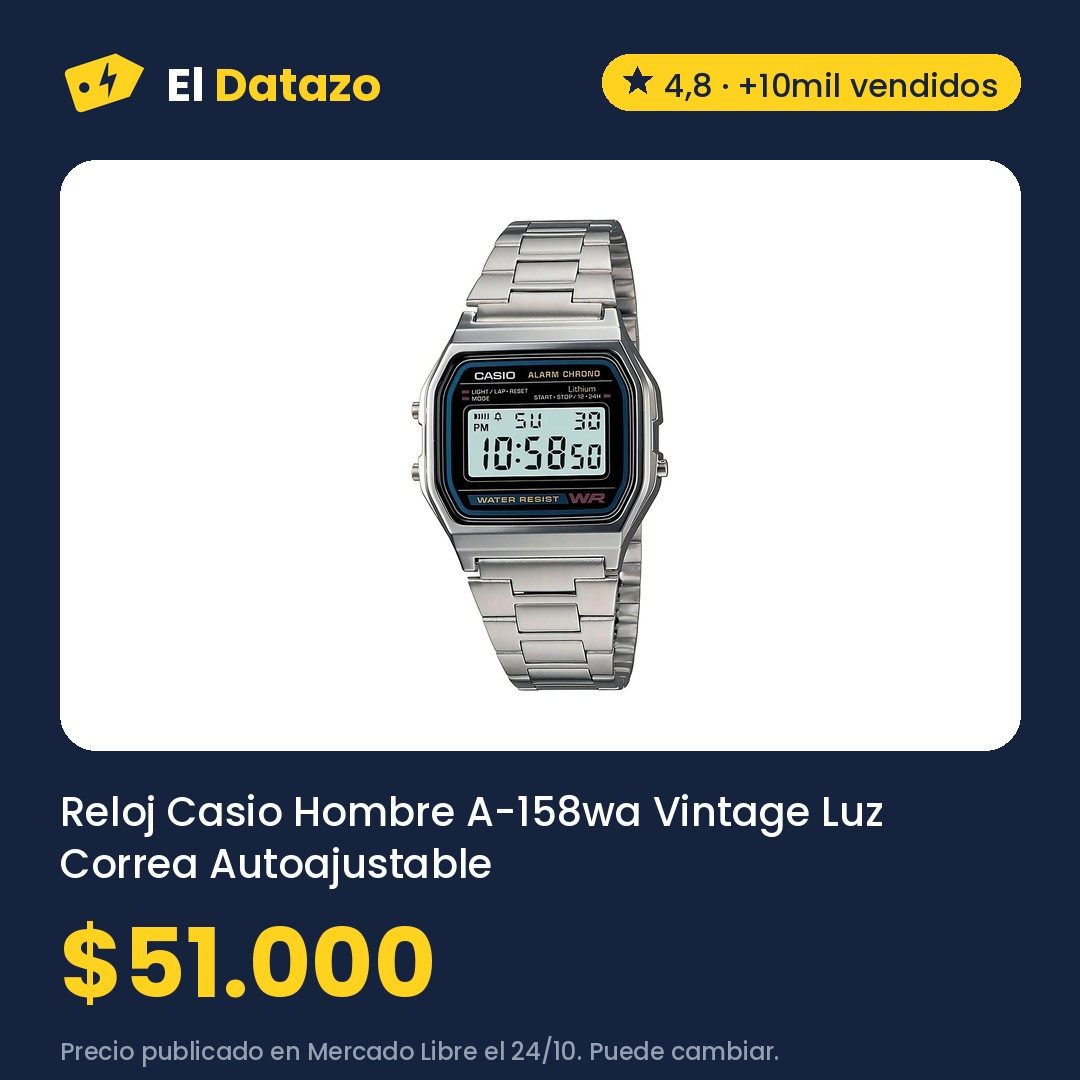
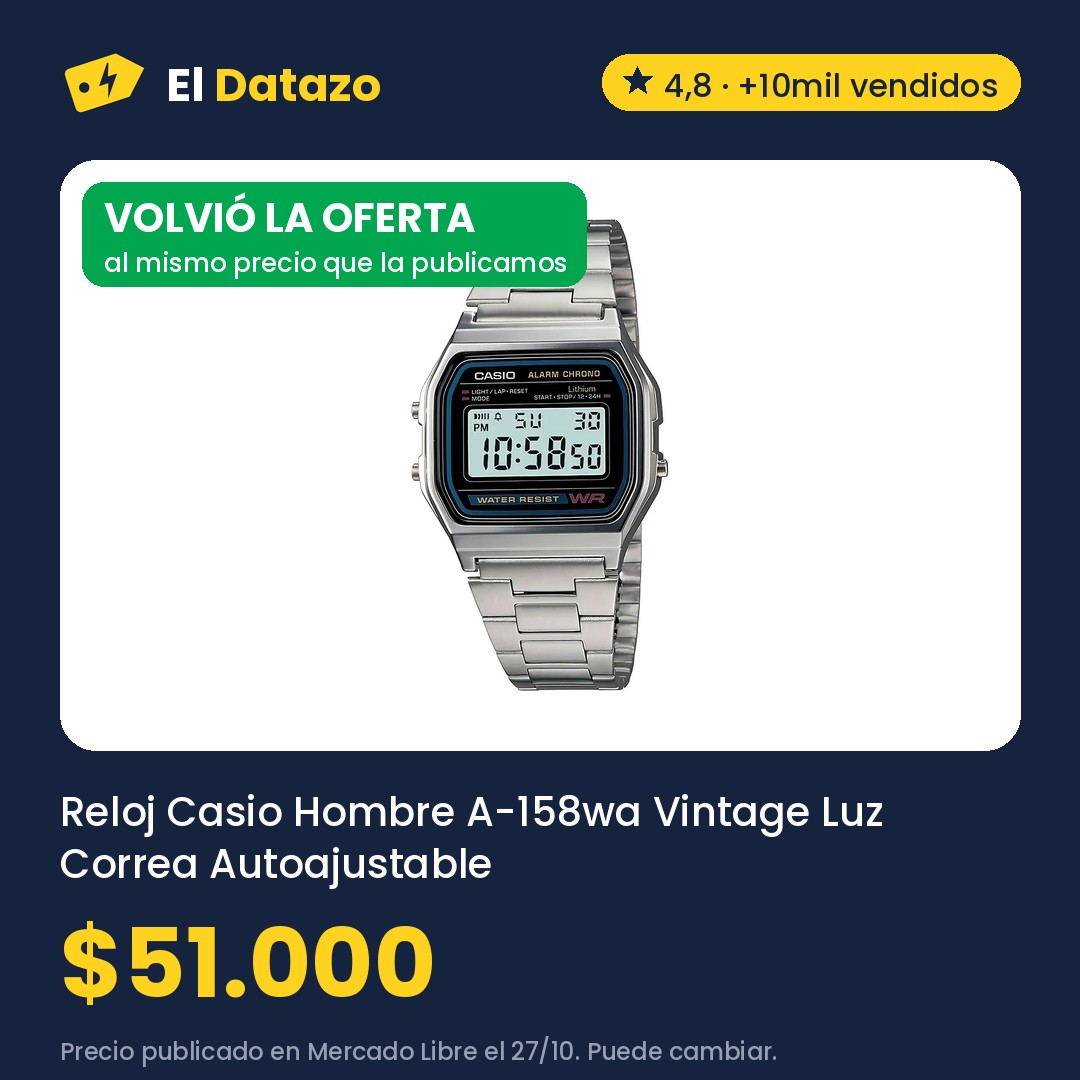
Ofertas 2026-10-27 16:16

Changed region(s): [[0.0611, 0.1528, 0.55, 0.275], [0.4889, 0.9472, 0.7028, 1.0]]

diff --git a/index.html b/index.html
@@ -47,7 +47,7 @@ font-weight:700;font-size:.85rem;padding:7px 12px;border-radius:999px}
 /* el datazo de hoy */
 .hero{display:grid;margin:22px 0 6px}
 .hero-foto img{display:block;width:100%;height:auto;border-radius:22px}
-.etiqueta{position:relative;margin:-14px 0 0 14px;background:var(--sol);color:var(--tinta);padding:20px 20px 16px 46px;
+.etiqueta{position:relative;margin:8px 0 0 14px;background:var(--sol);color:var(--tinta);padding:20px 20px 16px 46px;
 border-radius:0 18px 18px 0;clip-path:polygon(28px 0,100% 0,100% 100%,28px 100%,0 50%);
 transform-origin:22px 50%;animation:colgar 1.1s cubic-bezier(.3,1.6,.5,1) .25s both}
 .etiqueta::before{content:"";position:absolute;left:14px;top:50%;width:14px;height:14px;margin-top:-7px;border-radius:50%;
@@ -263,7 +263,7 @@ padding:3px 9px;border-radius:999px}
       <a class="ancla" href="#como-elegimos">¿Cómo elegimos?</a></p>
       <form class="busca" role="search" action="./" method="get" data-busca>
         <label class="oculto" for="q">Buscar en Mercado Libre</label>
-        <input id="q" name="q" type="search" placeholder="¿Qué buscás? Ej.: freidora de aire" autocomplete="off"
+        <input id="q" name="q" type="search" placeholder="¿Qué buscás? Ej.: termo" autocomplete="off"
                enterkeyhint="search" maxlength="80">
         <button type="submit">Buscar</button>
       </form>
@@ -292,7 +292,7 @@ padding:3px 9px;border-radius:999px}
       <p class="hero-precio">$50.749</p>
       <p class="hero-antes"><s>$108.499</s> <span class="off">53% OFF</span></p>
       
-      <p class="nota">Precio del 24/10 en Mercado Libre, revisado hoy a las 11:32. Puede cambiar.</p>
+      <p class="nota">Precio del 24/10 en Mercado Libre, revisado hoy a las 13:16. Puede cambiar.</p>
       <a class="boton oscuro" href="https://meli.la/1HyqnAD" rel="sponsored noopener" target="_blank"
          data-oferta="MLA22130330">Ver oferta en Mercado Libre</a>
       <a class="compartir" href="https://wa.me/?text=Mir%C3%A1%20este%20datazo%3A%20Buclera%20de%20Pelo%20Gadnic%20B3000%20Rizador%203%20Tubos%2025%20mm%20150W%20180%20210%20C%20a%20%2450.749%20https%3A//eldatazo.com.ar/%23MLA22130330" target="_blank" rel="noopener" data-estilo="texto"><svg viewBox="0 0 24 24" width="16" height="16" aria-hidden="true"><path d="M4 20l1.3-4A8 8 0 1 1 8 18.7L4 20z" fill="none" stroke="currentColor" stroke-width="2" stroke-linejoin="round"/></svg> Compartir por WhatsApp</a>
@@ -300,7 +300,7 @@ padding:3px 9px;border-radius:999px}
   </section>
       
   <section class="franja-bajo" aria-labelledby="bajo-titulo">
-    <h2 id="bajo-titulo">⬇ Bajaron de precio <span>11</span></h2>
+    <h2 id="bajo-titulo">⬇ Bajaron de precio <span>13</span></h2>
     <ul class="franja-lista">
         <li><a href="#MLA16048275"><img src="img/MLA16048275.jpg" alt="" loading="lazy">
           <span><b>Eucerin Sun Oil Control Protector solar facial Toque Seco FPS 50 x 50 ml</b><span class="ahora">$37.651</span><s>$45.181</s> <span class="bajo">⬇ Bajó</span></span></a></li>
@@ -310,6 +310,10 @@ padding:3px 9px;border-radius:999px}
           <span><b>Old Prince Premium gato adulto 7.5 kg</b><span class="ahora">$40.100</span> <span class="bajo">⬇ Volvió</span></span></a></li>
         <li><a href="#MLA28052339"><img src="img/MLA28052339.jpg" alt="" loading="lazy">
           <span><b>Pañales Pampers deluxe protection XXG x 54 unidades</b><span class="ahora">$42.190</span> <span class="bajo">⬇ Volvió</span></span></a></li>
+        <li><a href="#MLA30422545"><img src="img/MLA30422545.jpg" alt="" loading="lazy">
+          <span><b>Reloj Casio Hombre A-158wa Vintage Luz Correa Autoajustable Malla Plateado Bisel Gris Fondo P</b><span class="ahora">$51.000</span> <span class="bajo">⬇ Volvió</span></span></a></li>
+        <li><a href="#MLA32162099"><img src="img/MLA32162099.jpg" alt="" loading="lazy">
+          <span><b>Reloj Casio Vintage A158WA-1DF digital plateado con cronógrafo y calendario</b><span class="ahora">$51.000</span> <span class="bajo">⬇ Volvió</span></span></a></li>
         <li><a href="https://meli.la/2bhn3SU" rel="sponsored noopener" target="_blank" data-oferta="MLA29031346"><img src="https://http2.mlstatic.com/D_Q_NP_930271-MLA99501053204_112025-AB.webp" alt="" loading="lazy" referrerpolicy="no-referrer">
           <span><b>Kit X 2 Handy Baofeng Radio Walkie Talkie Bf888s 16ch Uhf Bandas de frecuencia 16 Color Negro</b><span class="ahora">$31.448</span><s>$45.000</s>
           <span class="bajo">⬇ Bajó</span></span></a></li>
@@ -327,9 +331,6 @@ padding:3px 9px;border-radius:999px}
           <span class="bajo">⬇ Bajó</span></span></a></li>
         <li><a href="https://meli.la/1bvAc5G" rel="sponsored noopener" target="_blank" data-oferta="MLA41149389"><img src="https://http2.mlstatic.com/D_Q_NP_607503-MLA115610455682_092026-AB.webp" alt="" loading="lazy" referrerpolicy="no-referrer">
           <span><b>Auriculares Xiaomi Redmi Buds 6 Play Inalámbricos Bluetooth 5.4 36 h In-ear Blanco</b><span class="ahora">$22.500</span><s>$25.450</s>
-          <span class="bajo">⬇ Bajó</span></span></a></li>
-        <li><a href="https://meli.la/28b98gK" rel="sponsored noopener" target="_blank" data-oferta="MLA16596813"><img src="https://http2.mlstatic.com/D_Q_NP_978080-MLA99388425642_112025-AB.webp" alt="" loading="lazy" referrerpolicy="no-referrer">
-          <span><b>Tarjeta de memoria SanDisk SDSQUNR-064G-GN3MA Ultra con adaptador SD 64GB</b><span class="ahora">$30.451</span><s>$32.499</s>
           <span class="bajo">⬇ Bajó</span></span></a></li>
     </ul>
   </section>
@@ -350,8 +351,8 @@ padding:3px 9px;border-radius:999px}
             <option value="precio">Más baratas</option>
           </select></label>
       </div>
-      <div class="chips" role="group" aria-label="Rubro"><button type="button" data-filtro="" aria-pressed="true">Todo</button><button type="button" data-filtro="MLA1500" aria-pressed="false">Construcción <span>5</span></button><button type="button" data-filtro="MLA1499" aria-pressed="false">Industrias y Oficinas <span>3</span></button><button type="button" data-filtro="MLA1071" aria-pressed="false">Mascotas <span>3</span></button><button type="button" data-filtro="MLA5725" aria-pressed="false">Accesorios para Vehículos <span>2</span></button><button type="button" data-filtro="MLA1246" aria-pressed="false">Belleza y Cuidado Personal <span>2</span></button><button type="button" data-filtro="MLA1132" aria-pressed="false">Juegos y Juguetes <span>2</span></button><button type="button" data-filtro="MLA409431" aria-pressed="false">Salud y Equipamiento Médico <span>2</span></button><button type="button" data-filtro="MLA1512" aria-pressed="false">Agro <span>1</span></button><button type="button" data-filtro="MLA1368" aria-pressed="false">Arte, Librería y Mercería <span>1</span></button><button type="button" data-filtro="MLA1384" aria-pressed="false">Bebés <span>1</span></button><button type="button" data-filtro="MLA1276" aria-pressed="false">Deportes y Fitness <span>1</span></button><button type="button" data-filtro="MLA407134" aria-pressed="false">Herramientas <span>1</span></button></div>
-      <p class="contador" aria-live="polite"><span data-cuenta>24</span> ofertas</p>
+      <div class="chips" role="group" aria-label="Rubro"><button type="button" data-filtro="" aria-pressed="true">Todo</button><button type="button" data-filtro="MLA1500" aria-pressed="false">Construcción <span>5</span></button><button type="button" data-filtro="MLA1499" aria-pressed="false">Industrias y Oficinas <span>3</span></button><button type="button" data-filtro="MLA1071" aria-pressed="false">Mascotas <span>3</span></button><button type="button" data-filtro="MLA5725" aria-pressed="false">Accesorios para Vehículos <span>2</span></button><button type="button" data-filtro="MLA1246" aria-pressed="false">Belleza y Cuidado Personal <span>2</span></button><button type="button" data-filtro="MLA3937" aria-pressed="false">Joyas y Relojes <span>2</span></button><button type="button" data-filtro="MLA1132" aria-pressed="false">Juegos y Juguetes <span>2</span></button><button type="button" data-filtro="MLA409431" aria-pressed="false">Salud y Equipamiento Médico <span>2</span></button><button type="button" data-filtro="MLA1512" aria-pressed="false">Agro <span>1</span></button><button type="button" data-filtro="MLA1368" aria-pressed="false">Arte, Librería y Mercería <span>1</span></button><button type="button" data-filtro="MLA1384" aria-pressed="false">Bebés <span>1</span></button><button type="button" data-filtro="MLA1276" aria-pressed="false">Deportes y Fitness <span>1</span></button><button type="button" data-filtro="MLA407134" aria-pressed="false">Herramientas <span>1</span></button></div>
+      <p class="contador" aria-live="polite"><span data-cuenta>26</span> ofertas</p>
     </div>
     <div class="grilla activas">
       <article class="tarjeta destacada" id="MLA16048275" data-rubro="MLA1246" data-off="50" data-pub="2026-10-27" data-quedan="7" data-precio="37651" data-bajo="18" data-texto="eucerin sun oil control protector solar facial toque seco fps 50 x 50 ml">
@@ -363,7 +364,7 @@ padding:3px 9px;border-radius:999px}
           <h3>Eucerin Sun Oil Control Protector solar facial Toque Seco FPS 50 x 50 ml</h3>
           <p class="precios "><span class="precio">$37.651</span><s class="antes">$75.302</s><span class="off">50% OFF</span></p>
           <p class="bajo">Antes $45.181 el 22/10 · 17% menos</p>
-          <p class="nota">Precio de hoy a las 11:32 en Mercado Libre. Puede cambiar.</p>
+          <p class="nota">Precio de hoy a las 13:16 en Mercado Libre. Puede cambiar.</p>
           <div class="acciones">
             <a class="boton" href="https://meli.la/2Zpeewk" rel="sponsored noopener" target="_blank"
                data-oferta="MLA16048275">Ver oferta</a>
@@ -381,7 +382,7 @@ padding:3px 9px;border-radius:999px}
           <h3>Old Prince Premium gato adulto 7.5 kg</h3>
           <p class="precios "><span class="precio">$40.100</span></p>
           <p class="bajo">Había terminado y volvió al mismo precio</p>
-          <p class="nota">Precio de hoy a las 11:32 en Mercado Libre. Puede cambiar.</p>
+          <p class="nota">Precio de hoy a las 13:16 en Mercado Libre. Puede cambiar.</p>
           <div class="acciones">
             <a class="boton" href="https://meli.la/2zmmmFA" rel="sponsored noopener" target="_blank"
                data-oferta="MLA25363194">Ver oferta</a>
@@ -399,11 +400,47 @@ padding:3px 9px;border-radius:999px}
           <h3>Pañales Pampers deluxe protection XXG x 54 unidades</h3>
           <p class="precios "><span class="precio">$42.190</span><s class="antes">$43.430</s><span class="off">3% OFF</span></p>
           <p class="bajo">Había terminado y volvió al mismo precio</p>
-          <p class="nota">Precio de hoy a las 11:32 en Mercado Libre. Puede cambiar.</p>
+          <p class="nota">Precio de hoy a las 13:16 en Mercado Libre. Puede cambiar.</p>
           <div class="acciones">
             <a class="boton" href="https://meli.la/2kAwAe6" rel="sponsored noopener" target="_blank"
                data-oferta="MLA28052339">Ver oferta</a>
             <a class="compartir" href="https://wa.me/?text=Mir%C3%A1%20este%20datazo%3A%20Pa%C3%B1ales%20Pampers%20deluxe%20protection%20XXG%20x%2054%20unidades%20a%20%2442.190%20https%3A//eldatazo.com.ar/%23MLA28052339" target="_blank" rel="noopener"
+               aria-label="Compartir por WhatsApp" title="Compartir por WhatsApp"><svg viewBox="0 0 24 24" width="16" height="16" aria-hidden="true"><path d="M4 20l1.3-4A8 8 0 1 1 8 18.7L4 20z" fill="none" stroke="currentColor" stroke-width="2" stroke-linejoin="round"/></svg></a>
+          </div>
+        </div>
+      </article>
+      <article class="tarjeta destacada" id="MLA30422545" data-rubro="MLA3937" data-off="0" data-pub="2026-10-27" data-quedan="7" data-precio="51000" data-bajo="1" data-texto="reloj casio hombre a-158wa vintage luz correa autoajustable malla plateado bisel gris fondo p">
+        <div class="tarjeta-foto">
+          <img src="img/MLA30422545.jpg" alt="Reloj Casio Hombre A-158wa Vintage Luz Correa Autoajustable Malla Plateado Bisel Gris Fondo P" loading="lazy" width="1080" height="1080">
+        </div>
+        <div class="cuerpo">
+          <div class="fila"><span class="sello baja">⬇ Volvió</span><span class="sello">Quedan 7 días</span><span class="rubro">Joyas y Relojes</span></div>
+          <h3>Reloj Casio Hombre A-158wa Vintage Luz Correa Autoajustable Malla Plateado Bisel Gris Fondo P</h3>
+          <p class="precios "><span class="precio">$51.000</span></p>
+          <p class="bajo">Había terminado y volvió al mismo precio</p>
+          <p class="nota">Precio de hoy a las 13:16 en Mercado Libre. Puede cambiar.</p>
+          <div class="acciones">
+            <a class="boton" href="https://meli.la/2o65PxL" rel="sponsored noopener" target="_blank"
+               data-oferta="MLA30422545">Ver oferta</a>
+            <a class="compartir" href="https://wa.me/?text=Mir%C3%A1%20este%20datazo%3A%20Reloj%20Casio%20Hombre%20A-158wa%20Vintage%20Luz%20Correa%20Autoajustable%20Malla%20Plateado%20Bisel%20Gris%20Fondo%20P%20a%20%2451.000%20https%3A//eldatazo.com.ar/%23MLA30422545" target="_blank" rel="noopener"
+               aria-label="Compartir por WhatsApp" title="Compartir por WhatsApp"><svg viewBox="0 0 24 24" width="16" height="16" aria-hidden="true"><path d="M4 20l1.3-4A8 8 0 1 1 8 18.7L4 20z" fill="none" stroke="currentColor" stroke-width="2" stroke-linejoin="round"/></svg></a>
+          </div>
+        </div>
+      </article>
+      <article class="tarjeta destacada" id="MLA32162099" data-rubro="MLA3937" data-off="0" data-pub="2026-10-27" data-quedan="7" data-precio="51000" data-bajo="1" data-texto="reloj casio vintage a158wa-1df digital plateado con cronógrafo y calendario">
+        <div class="tarjeta-foto">
+          <img src="img/MLA32162099.jpg" alt="Reloj Casio Vintage A158WA-1DF digital plateado con cronógrafo y calendario" loading="lazy" width="1080" height="1080">
+        </div>
+        <div class="cuerpo">
+          <div class="fila"><span class="sello baja">⬇ Volvió</span><span class="sello">Quedan 7 días</span><span class="rubro">Joyas y Relojes</span></div>
+          <h3>Reloj Casio Vintage A158WA-1DF digital plateado con cronógrafo y calendario</h3>
+          <p class="precios "><span class="precio">$51.000</span></p>
+          <p class="bajo">Había terminado y volvió al mismo precio</p>
+          <p class="nota">Precio de hoy a las 13:16 en Mercado Libre. Puede cambiar.</p>
+          <div class="acciones">
+            <a class="boton" href="https://meli.la/1Z3v7SJ" rel="sponsored noopener" target="_blank"
+               data-oferta="MLA32162099">Ver oferta</a>
+            <a class="compartir" href="https://wa.me/?text=Mir%C3%A1%20este%20datazo%3A%20Reloj%20Casio%20Vintage%20A158WA-1DF%20digital%20plateado%20con%20cron%C3%B3grafo%20y%20calendario%20a%20%2451.000%20https%3A//eldatazo.com.ar/%23MLA32162099" target="_blank" rel="noopener"
                aria-label="Compartir por WhatsApp" title="Compartir por WhatsApp"><svg viewBox="0 0 24 24" width="16" height="16" aria-hidden="true"><path d="M4 20l1.3-4A8 8 0 1 1 8 18.7L4 20z" fill="none" stroke="currentColor" stroke-width="2" stroke-linejoin="round"/></svg></a>
           </div>
         </div>
@@ -417,7 +454,7 @@ padding:3px 9px;border-radius:999px}
           <h3>Calculadora Cientifica Casio Fx 570la Cw Classwiz Negra</h3>
           <p class="precios "><span class="precio">$59.174</span></p>
           
-          <p class="nota">Precio del 26/10 en Mercado Libre, revisado hoy a las 11:32. Puede cambiar.</p>
+          <p class="nota">Precio del 26/10 en Mercado Libre, revisado hoy a las 13:16. Puede cambiar.</p>
           <div class="acciones">
             <a class="boton" href="https://meli.la/2iggYJ9" rel="sponsored noopener" target="_blank"
                data-oferta="MLA22724798">Ver oferta</a>
@@ -435,7 +472,7 @@ padding:3px 9px;border-radius:999px}
           <h3>Colchón Inflable Doble Klimber + Inflador + 2 Almohadas</h3>
           <p class="precios "><span class="precio">$45.777</span><s class="antes">$69.499</s><span class="off">34% OFF</span></p>
           
-          <p class="nota">Precio del 26/10 en Mercado Libre, revisado hoy a las 11:32. Puede cambiar.</p>
+          <p class="nota">Precio del 26/10 en Mercado Libre, revisado hoy a las 13:16. Puede cambiar.</p>
           <div class="acciones">
             <a class="boton" href="https://meli.la/19eMhmv" rel="sponsored noopener" target="_blank"
                data-oferta="MLA22764635">Ver oferta</a>
@@ -453,7 +490,7 @@ padding:3px 9px;border-radius:999px}
           <h3>Rotuladora Portátil Niimbot Etiquetadora Manual Impresora Color Blanco D110</h3>
           <p class="precios "><span class="precio">$41.040</span><s class="antes">$58.900</s><span class="off">30% OFF</span></p>
           
-          <p class="nota">Precio del 26/10 en Mercado Libre, revisado hoy a las 11:32. Puede cambiar.</p>
+          <p class="nota">Precio del 26/10 en Mercado Libre, revisado hoy a las 13:16. Puede cambiar.</p>
           <div class="acciones">
             <a class="boton" href="https://meli.la/1czSFp6" rel="sponsored noopener" target="_blank"
                data-oferta="MLA45260672">Ver oferta</a>
@@ -471,7 +508,7 @@ padding:3px 9px;border-radius:999px}
           <h3>Probioticos Perros Aditivo Natural Digestivo Instestinal Alergia Ruffitos</h3>
           <p class="precios "><span class="precio">$52.990</span><s class="antes">$69.000</s><span class="off">23% OFF</span></p>
           
-          <p class="nota">Precio del 26/10 en Mercado Libre, revisado hoy a las 11:32. Puede cambiar.</p>
+          <p class="nota">Precio del 26/10 en Mercado Libre, revisado hoy a las 13:16. Puede cambiar.</p>
           <div class="acciones">
             <a class="boton" href="https://meli.la/2MYNaoX" rel="sponsored noopener" target="_blank"
                data-oferta="MLA59797283">Ver oferta</a>
@@ -489,7 +526,7 @@ padding:3px 9px;border-radius:999px}
           <h3>Bomba Periferica Elevadora Agua Vasser 1/2 Hp 20mts caudal 30 l/m</h3>
           <p class="precios "><span class="precio">$42.419</span><s class="antes">$51.449</s><span class="off">18% OFF</span></p>
           
-          <p class="nota">Precio de hoy a las 11:32 en Mercado Libre. Puede cambiar.</p>
+          <p class="nota">Precio de hoy a las 13:16 en Mercado Libre. Puede cambiar.</p>
           <div class="acciones">
             <a class="boton" href="https://meli.la/2nztThe" rel="sponsored noopener" target="_blank"
                data-oferta="MLA19576694">Ver oferta</a>
@@ -507,7 +544,7 @@ padding:3px 9px;border-radius:999px}
           <h3>Bomba Pluvius Presurizadora 100 W Automática 2 Baños</h3>
           <p class="precios "><span class="precio">$62.006</span><s class="antes">$81.899</s><span class="off">24% OFF</span></p>
           <p class="bajo">Antes $66.659 el 24/10 · 7% menos</p>
-          <p class="nota">Precio de hoy a las 11:32 en Mercado Libre. Puede cambiar.</p>
+          <p class="nota">Precio de hoy a las 13:16 en Mercado Libre. Puede cambiar.</p>
           <div class="acciones">
             <a class="boton" href="https://meli.la/2a5DkY2" rel="sponsored noopener" target="_blank"
                data-oferta="MLA19974075">Ver oferta</a>
@@ -525,7 +562,7 @@ padding:3px 9px;border-radius:999px}
           <h3>Equipo Pistola Pintar Eléctrica Latex 450w TOTAL Acabado Profesional sin Esfuerzo</h3>
           <p class="precios "><span class="precio">$56.340</span><s class="antes">$105.990</s><span class="off">47% OFF</span></p>
           
-          <p class="nota">Precio del 24/10 en Mercado Libre, revisado hoy a las 11:32. Puede cambiar.</p>
+          <p class="nota">Precio del 24/10 en Mercado Libre, revisado hoy a las 13:16. Puede cambiar.</p>
           <div class="acciones">
             <a class="boton" href="https://meli.la/2TeggF7" rel="sponsored noopener" target="_blank"
                data-oferta="MLA22620660">Ver oferta</a>
@@ -543,7 +580,7 @@ padding:3px 9px;border-radius:999px}
           <h3>Silfab AL91 Almohadilla Eléctrica Espalda Large 41 X 28 Cm</h3>
           <p class="precios "><span class="precio">$50.465</span></p>
           
-          <p class="nota">Precio del 24/10 en Mercado Libre, revisado hoy a las 11:32. Puede cambiar.</p>
+          <p class="nota">Precio del 24/10 en Mercado Libre, revisado hoy a las 13:16. Puede cambiar.</p>
           <div class="acciones">
             <a class="boton" href="https://meli.la/2cQdCWW" rel="sponsored noopener" target="_blank"
                data-oferta="MLA23456165">Ver oferta</a>
@@ -561,7 +598,7 @@ padding:3px 9px;border-radius:999px}
           <h3>Pintura Latex Ingenia X 20 L Interior Exterior Cubritiva - Blanco</h3>
           <p class="precios "><span class="precio">$32.999</span><s class="antes">$69.999</s><span class="off">53% OFF</span></p>
           
-          <p class="nota">Precio del 24/10 en Mercado Libre, revisado hoy a las 11:32. Puede cambiar.</p>
+          <p class="nota">Precio del 24/10 en Mercado Libre, revisado hoy a las 13:16. Puede cambiar.</p>
           <div class="acciones">
             <a class="boton" href="https://meli.la/2Gbd1ds" rel="sponsored noopener" target="_blank"
                data-oferta="MLA23521180">Ver oferta</a>
@@ -579,7 +616,7 @@ padding:3px 9px;border-radius:999px}
           <h3>Masajeador Cervical Eléctrico Portatil Inalambrico Batería Recargable Usb Femmto Relajación Cuello Espalda Lumbar</h3>
           <p class="precios "><span class="precio">$70.699</span><s class="antes">$100.000</s><span class="off">29% OFF</span></p>
           
-          <p class="nota">Precio del 22/10 en Mercado Libre, revisado hoy a las 11:32. Puede cambiar.</p>
+          <p class="nota">Precio del 22/10 en Mercado Libre, revisado hoy a las 13:16. Puede cambiar.</p>
           <div class="acciones">
             <a class="boton" href="https://meli.la/2DfwhAa" rel="sponsored noopener" target="_blank"
                data-oferta="MLA24127896">Ver oferta</a>
@@ -597,7 +634,7 @@ padding:3px 9px;border-radius:999px}
           <h3>Taladro Atornillador Inalámbrico Branx Bateria 20v Litio Color Accesorios Maletin HyperBolt20</h3>
           <p class="precios "><span class="precio">$58.999</span><s class="antes">$120.000</s><span class="off">51% OFF</span></p>
           
-          <p class="nota">Precio del 24/10 en Mercado Libre, revisado hoy a las 11:32. Puede cambiar.</p>
+          <p class="nota">Precio del 24/10 en Mercado Libre, revisado hoy a las 13:16. Puede cambiar.</p>
           <div class="acciones">
             <a class="boton" href="https://meli.la/2xk9W87" rel="sponsored noopener" target="_blank"
                data-oferta="MLA24983473">Ver oferta</a>
@@ -615,7 +652,7 @@ padding:3px 9px;border-radius:999px}
           <h3>Equipo de Alta Frecuencia Gadnic LF60 Antienvejecimiento Antiacné Reafirmante Facial 4 Electrodos</h3>
           <p class="precios "><span class="precio">$49.999</span><s class="antes">$98.399</s><span class="off">49% OFF</span></p>
           
-          <p class="nota">Precio del 24/10 en Mercado Libre, revisado hoy a las 11:32. Puede cambiar.</p>
+          <p class="nota">Precio del 24/10 en Mercado Libre, revisado hoy a las 13:16. Puede cambiar.</p>
           <div class="acciones">
             <a class="boton" href="https://meli.la/1guS1ep" rel="sponsored noopener" target="_blank"
                data-oferta="MLA26522167">Ver oferta</a>
@@ -633,7 +670,7 @@ padding:3px 9px;border-radius:999px}
           <h3>Bomba Presurizadora Elevadora 2 Baños Presion Kommberg 120w KB-EP120</h3>
           <p class="precios "><span class="precio">$60.021</span><s class="antes">$79.890</s><span class="off">25% OFF</span></p>
           
-          <p class="nota">Precio del 24/10 en Mercado Libre, revisado hoy a las 11:32. Puede cambiar.</p>
+          <p class="nota">Precio del 24/10 en Mercado Libre, revisado hoy a las 13:16. Puede cambiar.</p>
           <div class="acciones">
             <a class="boton" href="https://meli.la/2eMw9XD" rel="sponsored noopener" target="_blank"
                data-oferta="MLA28254149">Ver oferta</a>
@@ -651,7 +688,7 @@ padding:3px 9px;border-radius:999px}
           <h3>Máquina De Cortar Pelo Para Perros Gadnic CP170 Silenciosa 2000 mAh 4 Peines Acero Inoxidable Autonomía 3,5Hr Carga Rápida</h3>
           <p class="precios "><span class="precio">$68.999</span><s class="antes">$118.749</s><span class="off">42% OFF</span></p>
           
-          <p class="nota">Precio del 24/10 en Mercado Libre, revisado hoy a las 11:32. Puede cambiar.</p>
+          <p class="nota">Precio del 24/10 en Mercado Libre, revisado hoy a las 13:16. Puede cambiar.</p>
           <div class="acciones">
             <a class="boton" href="https://meli.la/1eArodH" rel="sponsored noopener" target="_blank"
                data-oferta="MLA28329206">Ver oferta</a>
@@ -669,7 +706,7 @@ padding:3px 9px;border-radius:999px}
           <h3>Compresor De Aire Portátil Gadnic Inflador Neumáticos 50W Presión 150 PSI Caudal 17 L/min Pantalla Dual LCD Corte Automático Linterna LED Accesorios Para Auto Moto Bicicleta Pelotas</h3>
           <p class="precios "><span class="precio">$57.449</span><s class="antes">$105.599</s><span class="off">46% OFF</span></p>
           
-          <p class="nota">Precio del 24/10 en Mercado Libre, revisado hoy a las 11:32. Puede cambiar.</p>
+          <p class="nota">Precio del 24/10 en Mercado Libre, revisado hoy a las 13:16. Puede cambiar.</p>
           <div class="acciones">
             <a class="boton" href="https://meli.la/2ck1cFk" rel="sponsored noopener" target="_blank"
                data-oferta="MLA43472281">Ver oferta</a>
@@ -687,7 +724,7 @@ padding:3px 9px;border-radius:999px}
           <h3>Plastificadora Laminadora A4 Profesional Frio Calor 230 Mm</h3>
           <p class="precios "><span class="precio">$51.465</span><s class="antes">$79.999</s><span class="off">36% OFF</span></p>
           
-          <p class="nota">Precio del 24/10 en Mercado Libre, revisado hoy a las 11:32. Puede cambiar.</p>
+          <p class="nota">Precio del 24/10 en Mercado Libre, revisado hoy a las 13:16. Puede cambiar.</p>
           <div class="acciones">
             <a class="boton" href="https://meli.la/14bVQFh" rel="sponsored noopener" target="_blank"
                data-oferta="MLA43829530">Ver oferta</a>
@@ -705,7 +742,7 @@ padding:3px 9px;border-radius:999px}
           <h3>Cable Tipo Taller 2x2.5 Mm 50mts Cubierta Negro</h3>
           <p class="precios "><span class="precio">$48.839</span></p>
           
-          <p class="nota">Precio del 24/10 en Mercado Libre, revisado hoy a las 11:32. Puede cambiar.</p>
+          <p class="nota">Precio del 24/10 en Mercado Libre, revisado hoy a las 13:16. Puede cambiar.</p>
           <div class="acciones">
             <a class="boton" href="https://meli.la/1aC3rjr" rel="sponsored noopener" target="_blank"
                data-oferta="MLA50107405">Ver oferta</a>
@@ -723,7 +760,7 @@ padding:3px 9px;border-radius:999px}
           <h3>Bloques Magnéticos Para Armar 100 Piezas Construcción Tiles 100</h3>
           <p class="precios "><span class="precio">$63.832</span><s class="antes">$83.990</s><span class="off">24% OFF</span></p>
           
-          <p class="nota">Precio del 24/10 en Mercado Libre, revisado hoy a las 11:32. Puede cambiar.</p>
+          <p class="nota">Precio del 24/10 en Mercado Libre, revisado hoy a las 13:16. Puede cambiar.</p>
           <div class="acciones">
             <a class="boton" href="https://meli.la/2Hc8YtJ" rel="sponsored noopener" target="_blank"
                data-oferta="MLA63335049">Ver oferta</a>
@@ -741,7 +778,7 @@ padding:3px 9px;border-radius:999px}
           <h3>Juego Cubiertas Moto 110 2.50-17+2.75-14 + Camaras</h3>
           <p class="precios "><span class="precio">$60.776</span><s class="antes">$82.983</s><span class="off">27% OFF</span></p>
           
-          <p class="nota">Precio del 24/10 en Mercado Libre, revisado hoy a las 11:32. Puede cambiar.</p>
+          <p class="nota">Precio del 24/10 en Mercado Libre, revisado hoy a las 13:16. Puede cambiar.</p>
           <div class="acciones">
             <a class="boton" href="https://meli.la/1rzdJj3" rel="sponsored noopener" target="_blank"
                data-oferta="MLA63532450">Ver oferta</a>
@@ -759,7 +796,7 @@ padding:3px 9px;border-radius:999px}
           <h3>Matafuegos Abc 5 Kg Para Comercios</h3>
           <p class="precios "><span class="precio">$78.750</span><s class="antes">$105.000</s><span class="off">25% OFF</span></p>
           
-          <p class="nota">Precio del 24/10 en Mercado Libre, revisado hoy a las 11:32. Puede cambiar.</p>
+          <p class="nota">Precio del 24/10 en Mercado Libre, revisado hoy a las 13:16. Puede cambiar.</p>
           <div class="acciones">
             <a class="boton" href="https://meli.la/2gsNYCX" rel="sponsored noopener" target="_blank"
                data-oferta="MLA68388327">Ver oferta</a>
@@ -777,7 +814,7 @@ padding:3px 9px;border-radius:999px}
           <h3>Figuritas Panini X 25 Sobres World Cup 2026 Mundial 2026</h3>
           <p class="precios "><span class="precio">$50.000</span></p>
           
-          <p class="nota">Precio del 24/10 en Mercado Libre, revisado hoy a las 11:32. Puede cambiar.</p>
+          <p class="nota">Precio del 24/10 en Mercado Libre, revisado hoy a las 13:16. Puede cambiar.</p>
           <div class="acciones">
             <a class="boton" href="https://meli.la/1qNpAcw" rel="sponsored noopener" target="_blank"
                data-oferta="MLA69121337">Ver oferta</a>
@@ -1199,7 +1236,7 @@ padding:3px 9px;border-radius:999px}
     </div>
   </section>
     <div class="envoltura">
-      <details class="terminadas"><summary>Terminadas · ofertas que ya no están vigentes (14)</summary>
+      <details class="terminadas"><summary>Terminadas · ofertas que ya no están vigentes (12)</summary>
 <div class="grilla">
       <article class="tarjeta terminada" id="MLA19719361">
         <div class="tarjeta-foto">
@@ -1333,28 +1370,6 @@ padding:3px 9px;border-radius:999px}
              data-oferta="MLA42113284">Ver precio de hoy</a>
         </div>
       </article>
-      <article class="tarjeta terminada" id="MLA30422545">
-        <div class="tarjeta-foto">
-          <img src="img/MLA30422545_terminada.jpg" alt="Reloj Casio Hombre A-158wa Vintage Luz Correa Autoajustable Malla Plateado Bisel Gris Fondo P" loading="lazy" width="1080" height="1080">
-        </div>
-        <div class="cuerpo">
-          <h3>Reloj Casio Hombre A-158wa Vintage Luz Correa Autoajustable Malla Plateado Bisel Gris Fondo P</h3>
-          <p class="nota">Terminó el 25/10. El link sigue abierto: mirá el precio de hoy.</p>
-          <a class="boton suave" href="https://meli.la/2o65PxL" rel="sponsored noopener" target="_blank"
-             data-oferta="MLA30422545">Ver precio de hoy</a>
-        </div>
-      </article>
-      <article class="tarjeta terminada" id="MLA32162099">
-        <div class="tarjeta-foto">
-          <img src="img/MLA32162099_terminada.jpg" alt="Reloj Casio Vintage A158WA-1DF digital plateado con cronógrafo y calendario" loading="lazy" width="1080" height="1080">
-        </div>
-        <div class="cuerpo">
-          <h3>Reloj Casio Vintage A158WA-1DF digital plateado con cronógrafo y calendario</h3>
-          <p class="nota">Terminó el 25/10. El link sigue abierto: mirá el precio de hoy.</p>
-          <a class="boton suave" href="https://meli.la/1Z3v7SJ" rel="sponsored noopener" target="_blank"
-             data-oferta="MLA32162099">Ver precio de hoy</a>
-        </div>
-      </article>
 </div></details>
     </div>
   </main>
@@ -1363,7 +1378,7 @@ padding:3px 9px;border-radius:999px}
       <nav class="redes" aria-label="Redes de El Datazo"><a class="red" href="https://www.instagram.com/eldatazo.arg/" target="_blank" rel="noopener"><svg viewBox="0 0 24 24" width="18" height="18" aria-hidden="true"><rect x="3" y="3" width="18" height="18" rx="5" fill="none" stroke="currentColor" stroke-width="2"/><circle cx="12" cy="12" r="4" fill="none" stroke="currentColor" stroke-width="2"/><circle cx="17.5" cy="6.5" r="1.3" fill="currentColor"/></svg> Instagram</a><a class="red" href="https://www.facebook.com/profile.php?id=61595441168911" target="_blank" rel="noopener"><svg viewBox="0 0 24 24" width="18" height="18" aria-hidden="true"><path d="M14 8h3V4h-3a4 4 0 0 0-4 4v2H7v4h3v8h4v-8h3l1-4h-4V8z" fill="currentColor"/></svg> Facebook</a><a class="red" href="https://t.me/eldatazo_ofertas" target="_blank" rel="noopener"><svg viewBox="0 0 24 24" width="18" height="18" aria-hidden="true"><path d="M21 4 3 11l5 2 2 6 3-4 5 4 3-15zM9 13l9-6-7 8" fill="none" stroke="currentColor" stroke-width="1.8" stroke-linejoin="round"/></svg> Telegram</a></nav>
       <p>Los links son de afiliado de Mercado Libre: si comprás, El Datazo puede recibir una comisión, sin que cambie
       tu precio. Los precios son los publicados en Mercado Libre el día indicado y pueden cambiar.</p>
-      <p>Actualizado el 27/10/2026 11:33 (hora argentina) · <a href="privacidad/">Privacidad</a></p>
+      <p>Actualizado el 27/10/2026 13:16 (hora argentina) · <a href="privacidad/">Privacidad</a></p>
     </div>
   </footer>
   
